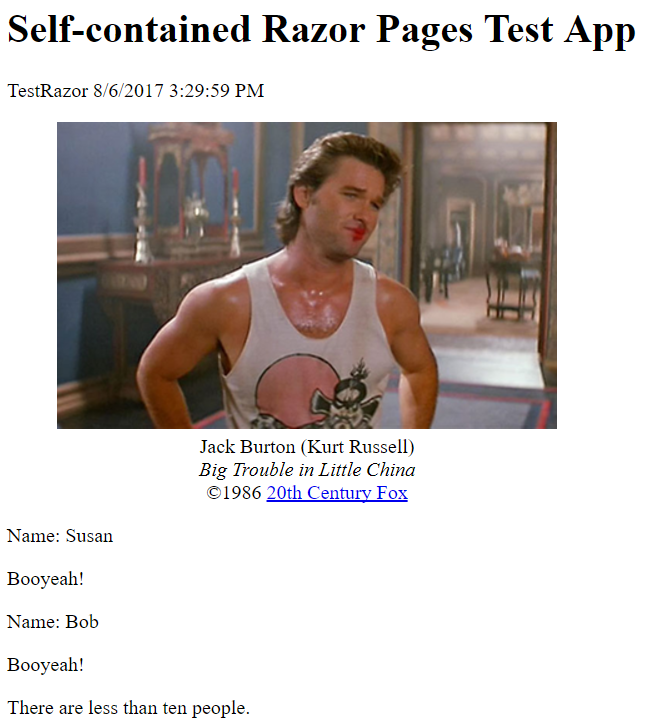
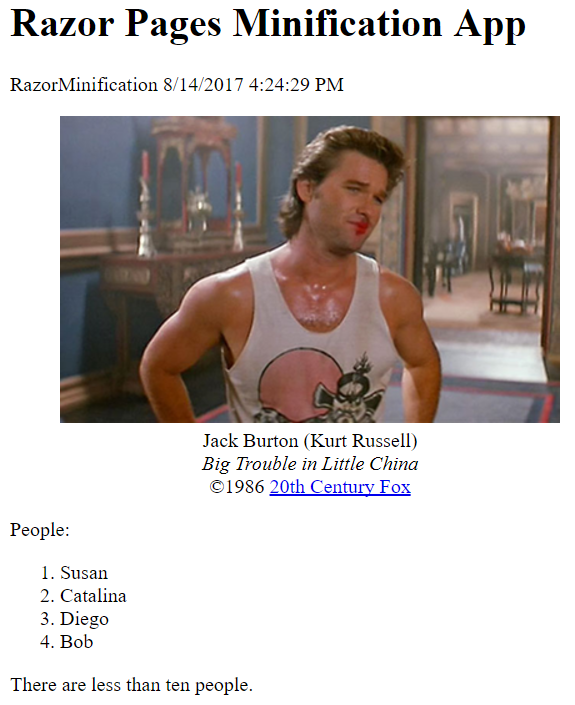
Updates to app and README

diff --git a/Program.cs b/Program.cs
@@ -1,11 +1,9 @@
 using Microsoft.AspNetCore;
 using Microsoft.AspNetCore.Builder;
 using Microsoft.AspNetCore.Hosting;
-using Microsoft.AspNetCore.Hosting.Internal;
-//using Microsoft.AspNetCore.Razor.Language;
-//using Microsoft.AspNetCore.Routing;
-//using Microsoft.Extensions.DependencyInjection;
-//using Microsoft.Extensions.Logging;
+using Microsoft.AspNetCore.Mvc;
+using Microsoft.AspNetCore.Razor.Language;
+using Microsoft.Extensions.DependencyInjection;
 
 namespace RazorMinification
 {

diff --git a/README.md b/README.md
@@ -45,36 +45,37 @@ The *Index.cshtml* file starts as ...
 <!DOCTYPE html>
 <html lang="en">
 <head>
-    <title>Self-contained Razor Pages Test App</title>
+    <title>Razor Pages Minification App</title>
 </head>
 <body>
-    <h1>Self-contained Razor Pages Test App</h1>
+    <h1>Razor Pages Minification App</h1>
     <p>@Host.ApplicationName @Model.DT</p>
-    <div>
-        <figure style="text-align:center;width:400px">
-            <img alt="Jack Burton" src="image.png">
-            <figcaption>Jack Burton (Kurt Russell)<br><em>Big Trouble in Little China</em><br>&copy;1986 <a href="http://www.foxmovies.com/">20th Century Fox</a></figcaption>
-        </figure>
-    </div>
-    <div>
-        <!--wmm:ignore-->@for (var i = 0; i < Model.People.Count; i++)
-        {
-            var person = Model.People[i];
-            <text><p>Name: @person</p></text>
-        }<!--/wmm:ignore-->
-    </div>
-    <div>
+    <figure style="text-align:center;width:400px">
+        <img alt="Jack Burton" src="image.png">
+        <figcaption>Jack Burton (Kurt Russell)<br><em>Big Trouble in Little China</em><br>&copy;1986 <a href="http://www.foxmovies.com/">20th Century Fox</a></figcaption>
+    </figure>
+    <p>
+        People:
+        <ol>
+            <!--wmm:ignore-->@for (var i = 0; i < Model.People.Count; i++)
+            {
+                var person = Model.People[i];
+                <text><li>@person</li></text>
+            }<!--/wmm:ignore-->
+        </ol>
+    </p>
+    <p>
         <!--wmm:ignore-->@if (Model.People.Count < 10)
         {
-            <text><p>There are less than ten people.</p></text>
+            <text>There are less than ten people.</text>
         }<!--/wmm:ignore-->
-    </div>
+    </p>
 </body>
 </html>
 ```
 
 The *Index.cshtml* file renders as ...
 
-> \<!DOCTYPE html>\<html lang=en-US>\<head>\<title>Self-contained Razor Pages Test App\</title>\<body>\<h1>Self-contained Razor Pages Test App\</h1>\<p>TestRazor 8/6/2017 3:29:59 PM\<div>\<figure style=text-align:center;width:400px>\<img alt="Jack Burton" src=image.png>\<figcaption>Jack Burton (Kurt Russell)\<br>\<em>Big Trouble in Little China\</em>\<br>&copy;1986 \<a href="http://www.foxmovies.com/">20th Century Fox\</a>\</figcaption>\</figure>\</div>\<div>\<p>Name: Susan\</p>\<p>Name: Bob\</p>\</div>\<div>\<p>There are less than ten people.\</p>\</div>
+> \<!DOCTYPE html>\<html lang=en>\<head>\<title>Razor Pages Minification App\</title>\<body>\<h1>Razor Pages Minification App\</h1>\<p>RazorMinification 8/14/2017 4:24:29 PM\</p>\<figure style=text-align:center;width:400px>\<img alt="Jack Burton" src=image.png>\<figcaption>Jack Burton (Kurt Russell)\<br>\<em>Big Trouble in Little China\</em>\<br>&copy;1986 \<a href="http://www.foxmovies.com/">20th Century Fox\</a>\</figcaption>\</figure>\<p>People:\<ol>\<li>Susan\</li>\<li>Catalina\</li>\<li>Diego\</li>\<li>Bob\</li>\</ol>\<p>There are less than ten people.
 
 ![Rendered page](image.png)
